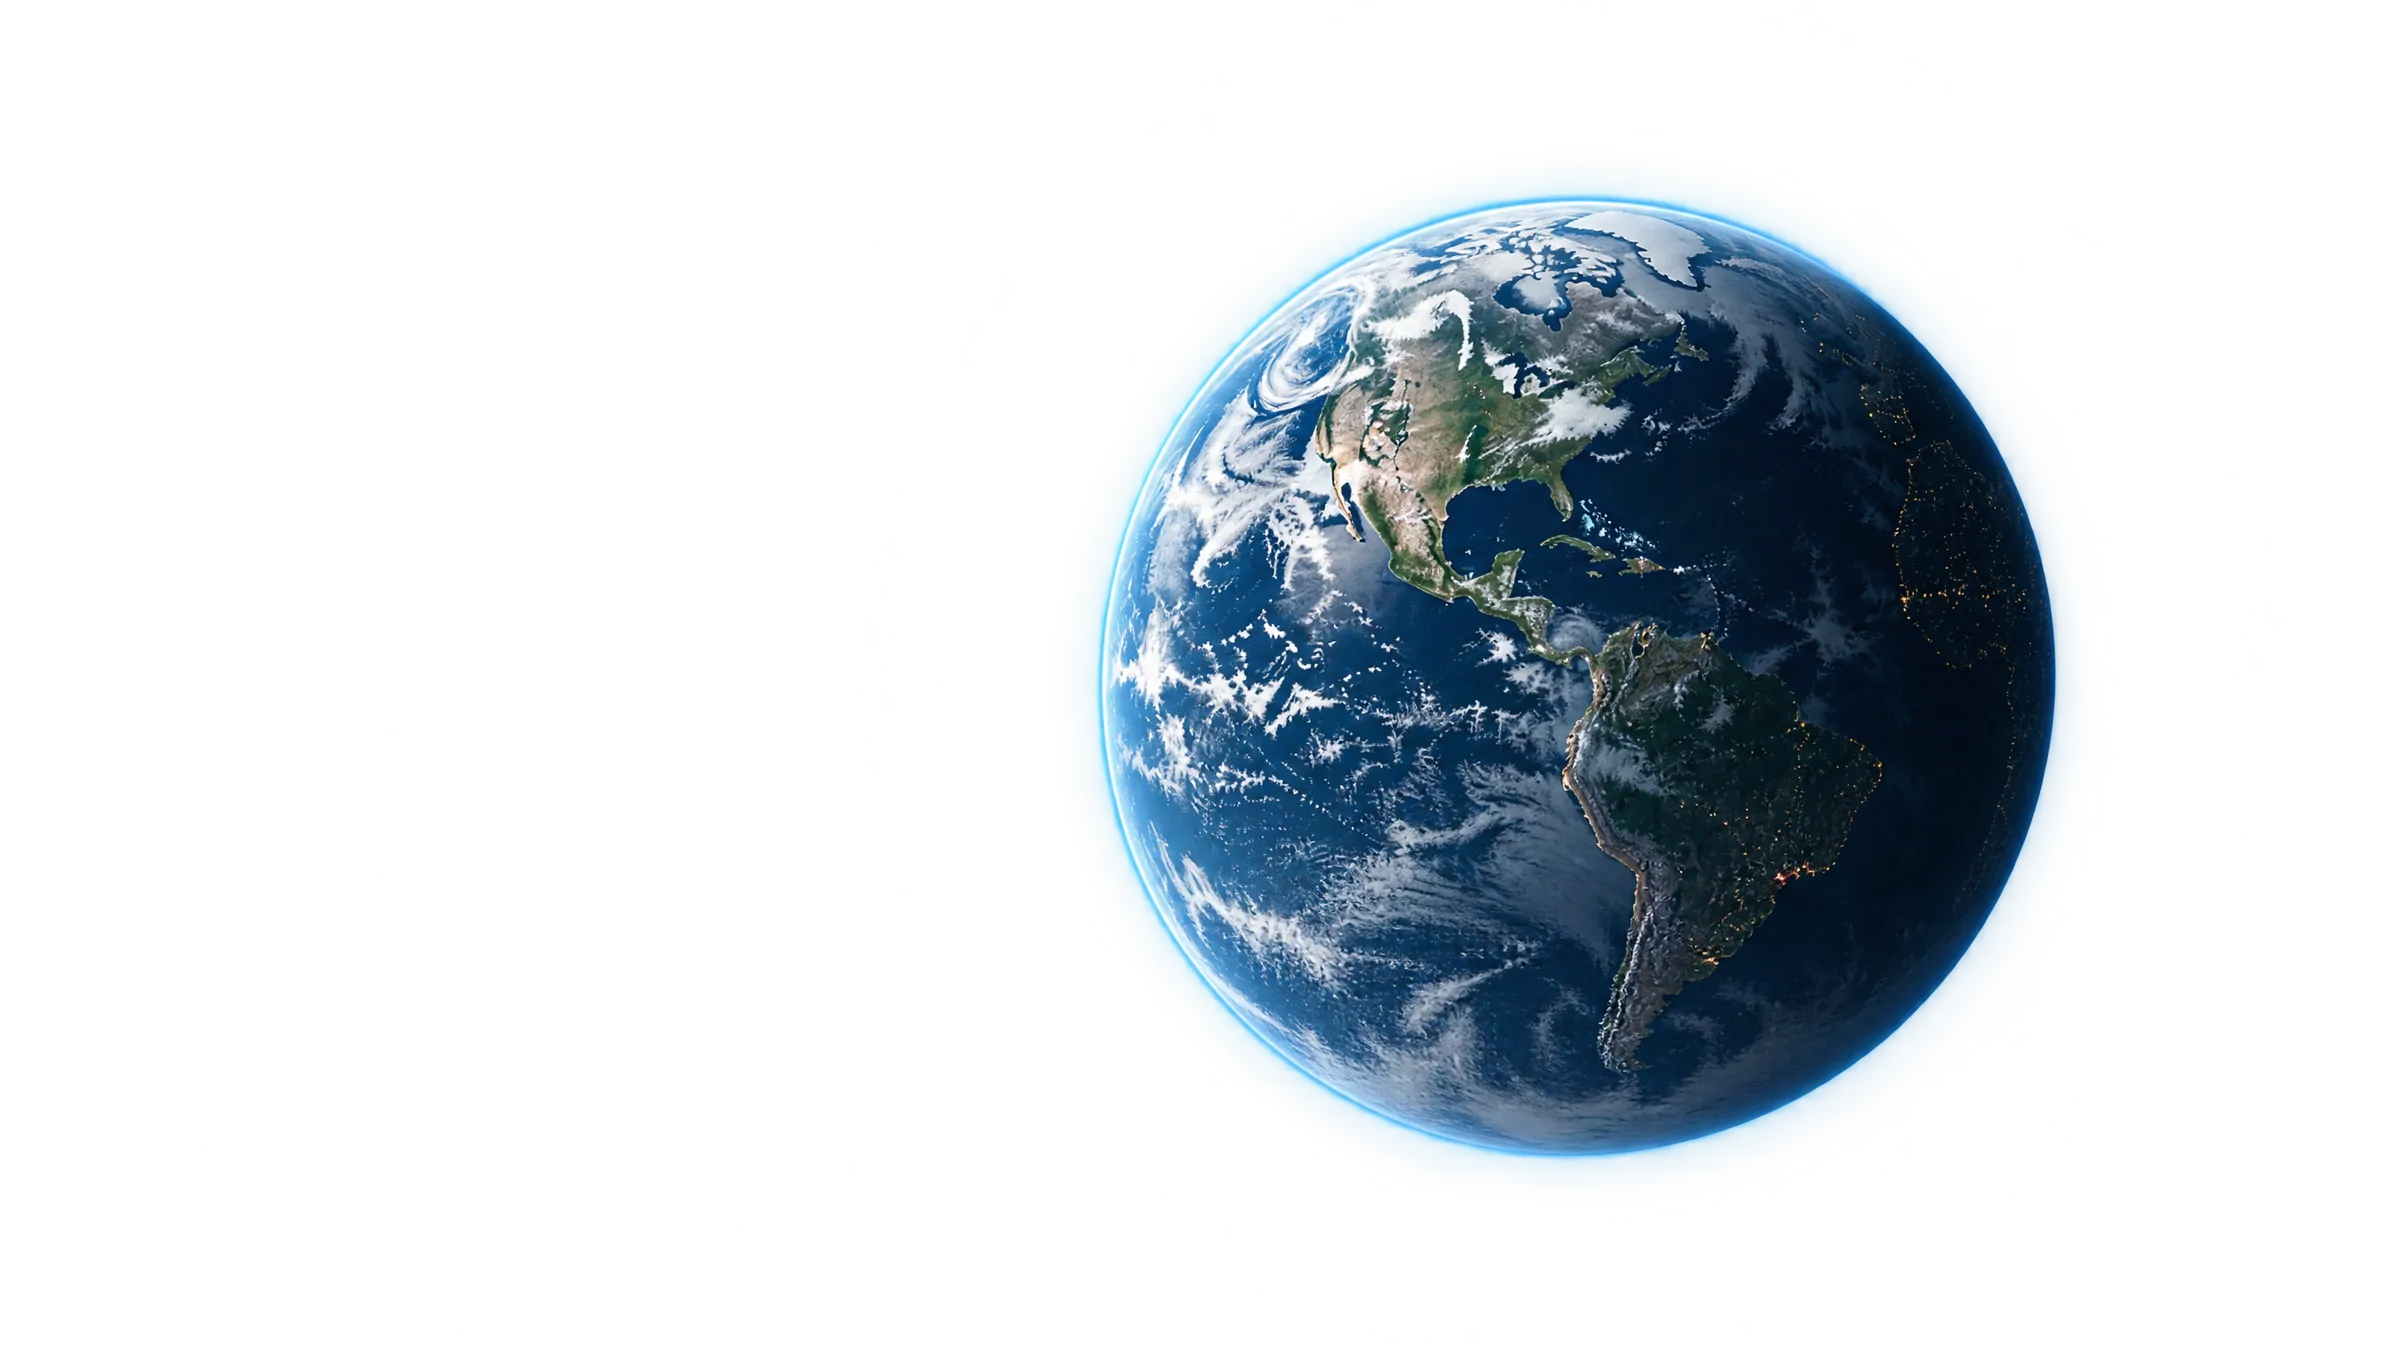
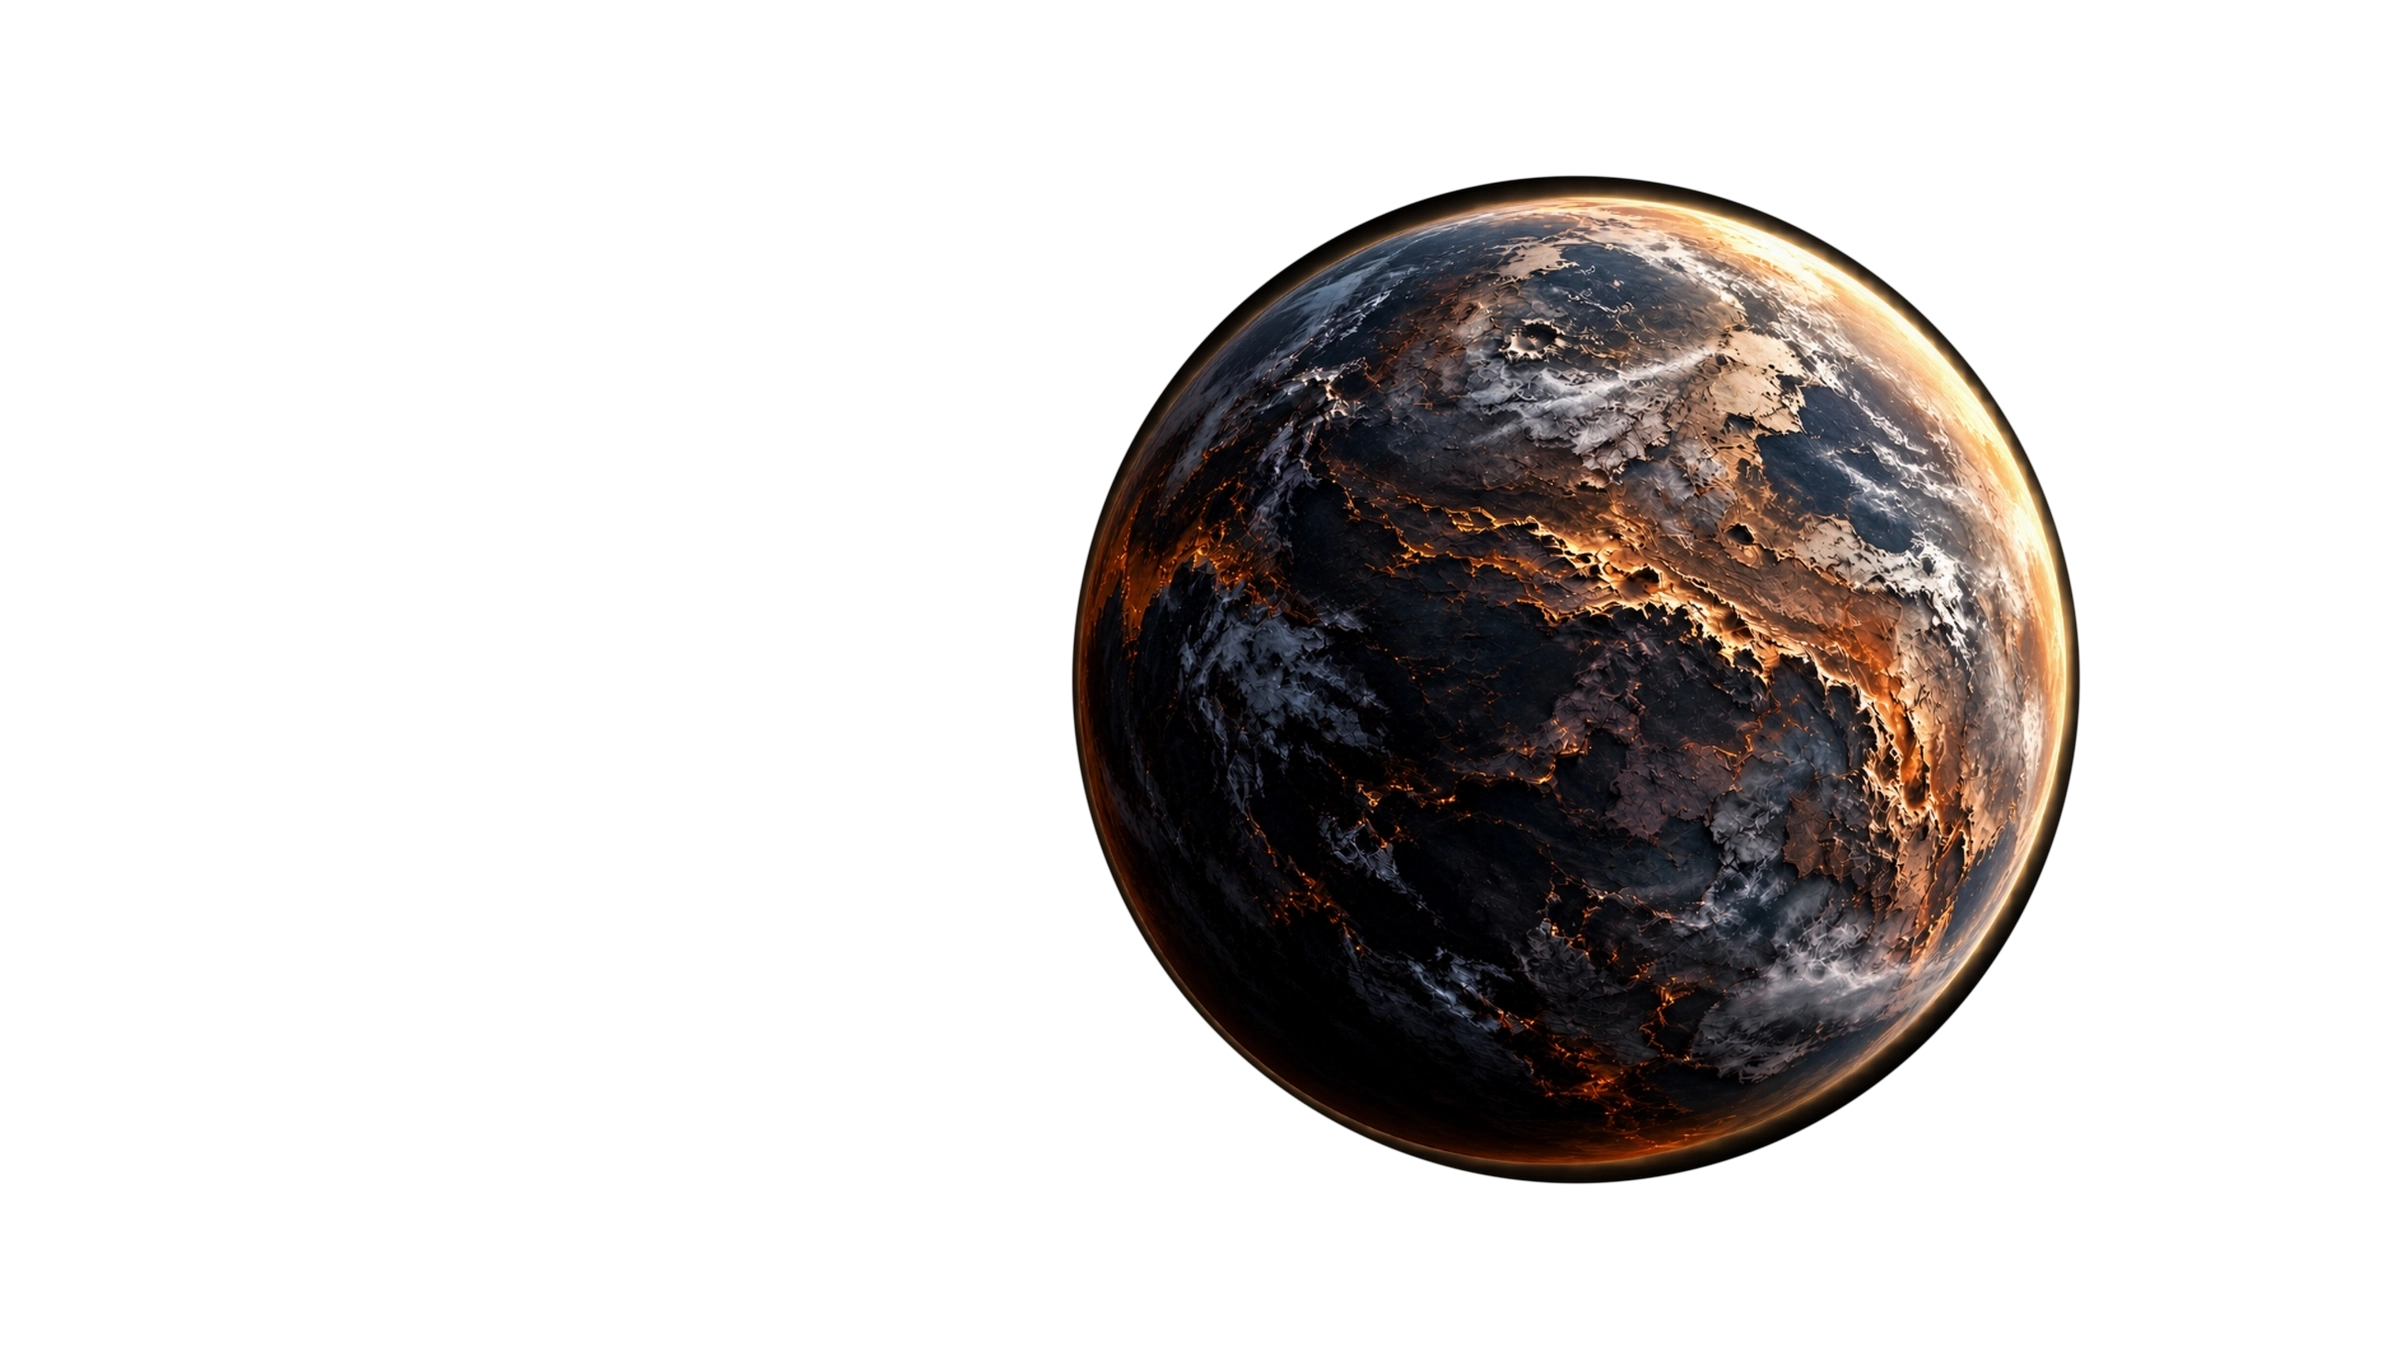
update hero planet asset and typography

Changed region(s): [[0.4375, 0.1238, 0.875, 0.8976]]

diff --git a/src/components/Earthrise.tsx b/src/components/Earthrise.tsx
@@ -173,7 +173,7 @@ export function Earthrise({onEnter}: {onEnter?: () => void}) {
           <h1 className="font-display text-hero text-white [text-shadow:0_4px_40px_rgb(0_0_0/0.5)]" style={{marginRight: '-0.24em'}}>
             {hero.title}
           </h1>
-          <p className="mt-4 font-mono text-label text-regolith/80 uppercase">{hero.kicker}</p>
+          <p className="mt-4 font-mono text-label text-white uppercase">{hero.kicker}</p>
           {onEnter && (
             <div className="mt-6 pointer-events-auto">
               <button

diff --git a/src/index.css b/src/index.css
@@ -1,4 +1,4 @@
-@import "tailwindcss";
+@import "tailwindcss";
 
 /* Lenis' own stylesheet */
 html.lenis,
@@ -24,8 +24,8 @@ html.lenis body {
   --color-earth: #6fb6ff;
   --color-sunlit: #f2e6c9;
 
-  --text-hero: clamp(2.25rem, 8.6vw, 9rem);
-  --text-hero--line-height: 1;
+  --text-hero: clamp(2.75rem, 7.8vw, 8.75rem);
+  --text-hero--line-height: 1.5;
   --text-hero--letter-spacing: 0.24em;
 
   --text-display: clamp(1.75rem, 4vw, 3.75rem);
